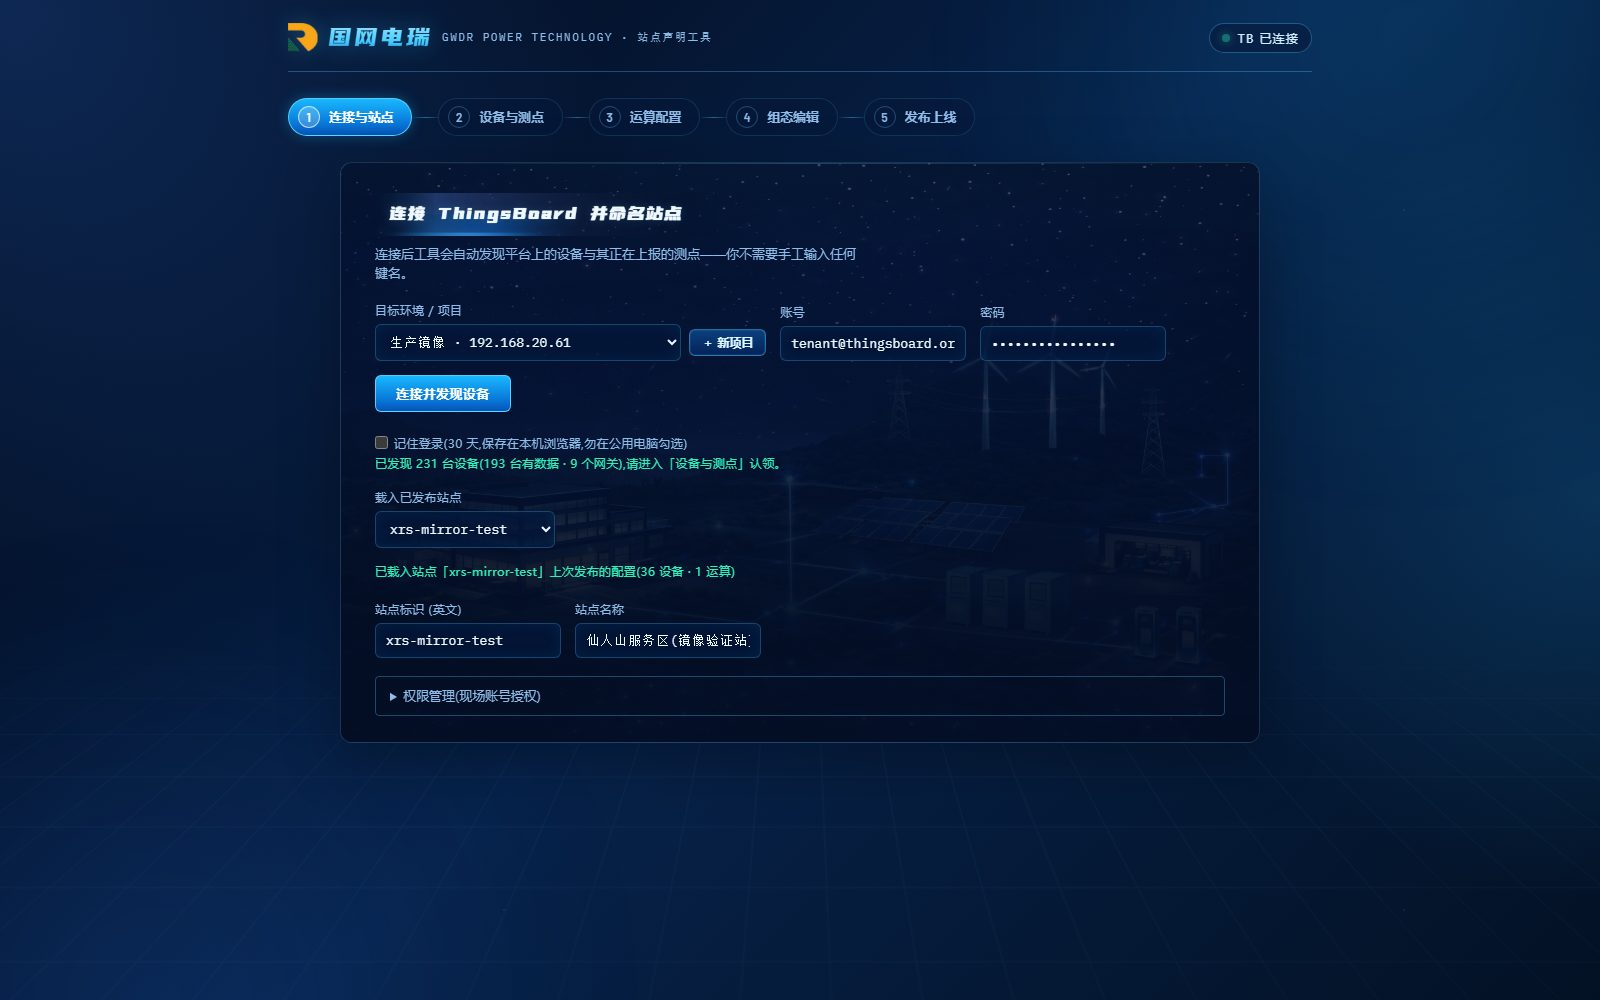
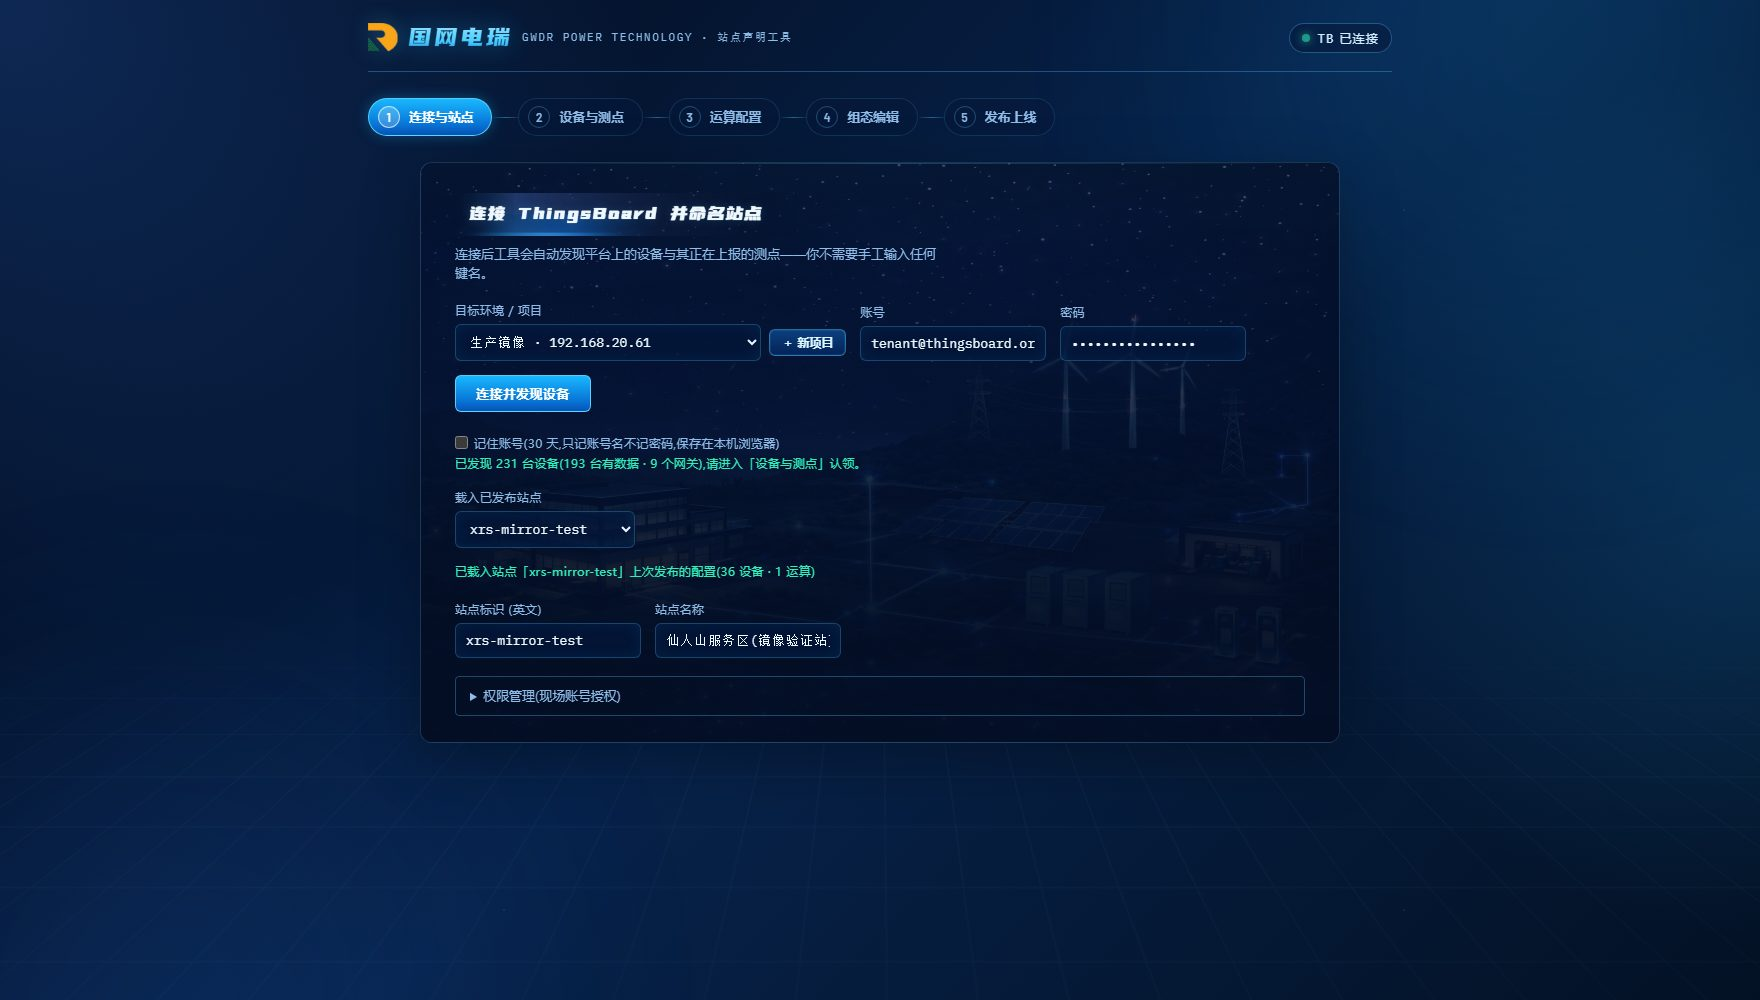
docs(docs): 重拍操作说明的截图,并补上绑定与外部 kz 两张
原来 10 张是 09-07 拍的,绑定面板此后改过两次(09-08 KeyPicker 层级、09-09 ext
点选表单 + 第 3 步声明输出置顶),今天又重写了正文里绑定那一整段——图文已经对不上。
这份文档的完成标准是「一位未参与开发的同事照着独立走完」,图不对那个人第一步就卡住。

- 12 张全部重拍,视口统一 1760×1000(原 1600 时右侧下拉面板会被窗口边切掉)。
- 新增 05b-绑定测点.jpg:测点下拉展开,「⭐ 本站配置的运算结果」置顶、未发布的带
  「待发布」;新增 05c-外部kz.jpg:外部 kz 的查询类型与各项下拉。正文里这两段本来
  就没有配图,而它们恰恰是「不用手打任何名字」这条验收标准的证据。
- 正文相应插入两张图并各配一句说明(说清「待发布也能选,第 5 步一起发」)。
- 截图前先把绑定填完整,不让手册里出现「1 个错误,不可发布」的报错态;第 3 步先展开
  两个「方式」折叠区,否则那张图是空的。
- 截图脚本从 scratchpad 移入 scripts/shoot-操作说明.mjs——UI 还会改,这脚本要能重跑。

Refs: T4.4, 里程碑C

diff --git a/docs/操作说明-工程人员.md b/docs/操作说明-工程人员.md
@@ -84,6 +84,17 @@
 
   两种都不用手写参数。行末的「高级:直接改 params JSON」平时不用管,是给排查问题时看的。
 
+![绑定测点](img/操作说明/05b-绑定测点.jpg)
+
+上图是点开测点下拉的样子。**最上面一组「⭐ 本站配置的运算结果」是你在第 3 步配出来的**,
+默认展开、排在最前;后面折着的「遥测」才是设备原本上报的量。第 3 步刚配好、**还没发布**的
+结果会带一个「待发布」标记 —— **照样可以选**,第 5 步一起发布就行,不用先发一次再回来绑。
+
+![外部 kz](img/操作说明/05c-外部kz.jpg)
+
+上图是「外部(kz)」的样子:选完查询类型,剩下的实体、测点、窗口、粒度、聚合全是下拉,
+和普通曲线一样点选。
+
 右栏底部的「校验」会实时告诉你缺什么(如「必填槽位为空」「测点不存在」);全部通过才能发布。「预览」用真数据渲染整页,可以切到客户账号视角看客户能看到什么。
 
 > 注意「N 个绑定在当前账号下不可见」:说明这些设备 / 资产没有分配给这个客户,客户登录大屏会看到「不可用」。找管理员把实体分配给该客户,或换绑别的数据。
